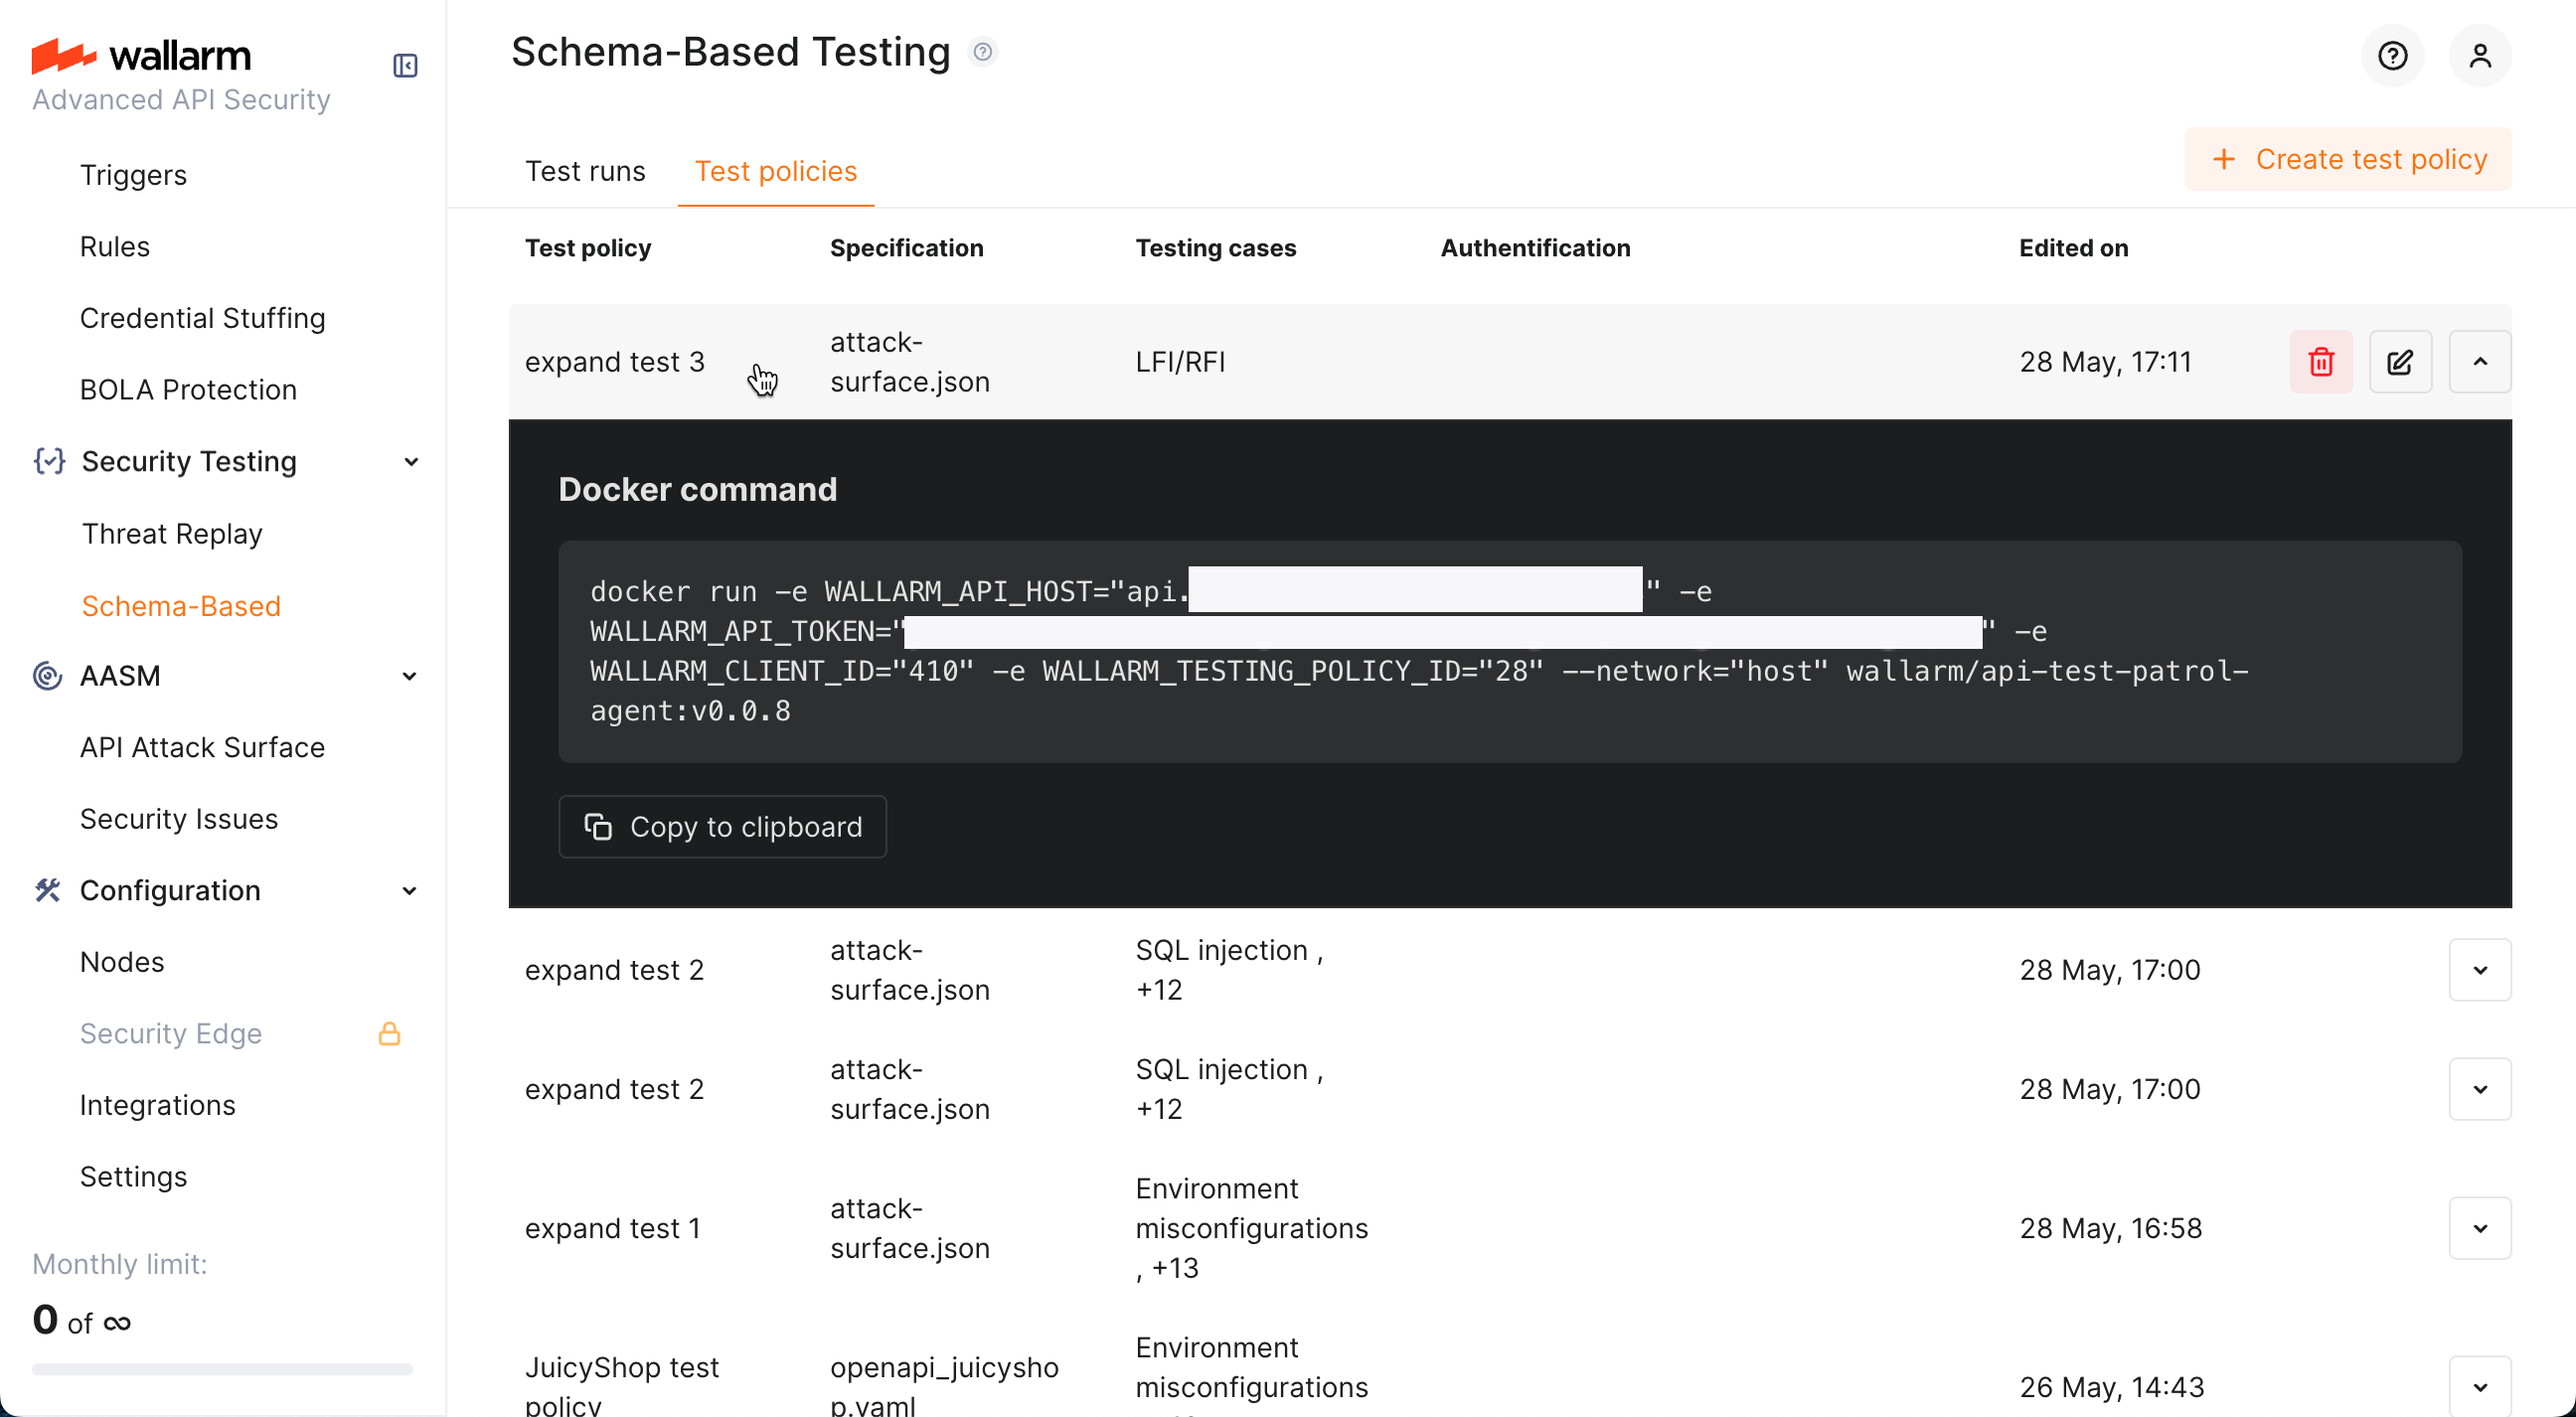
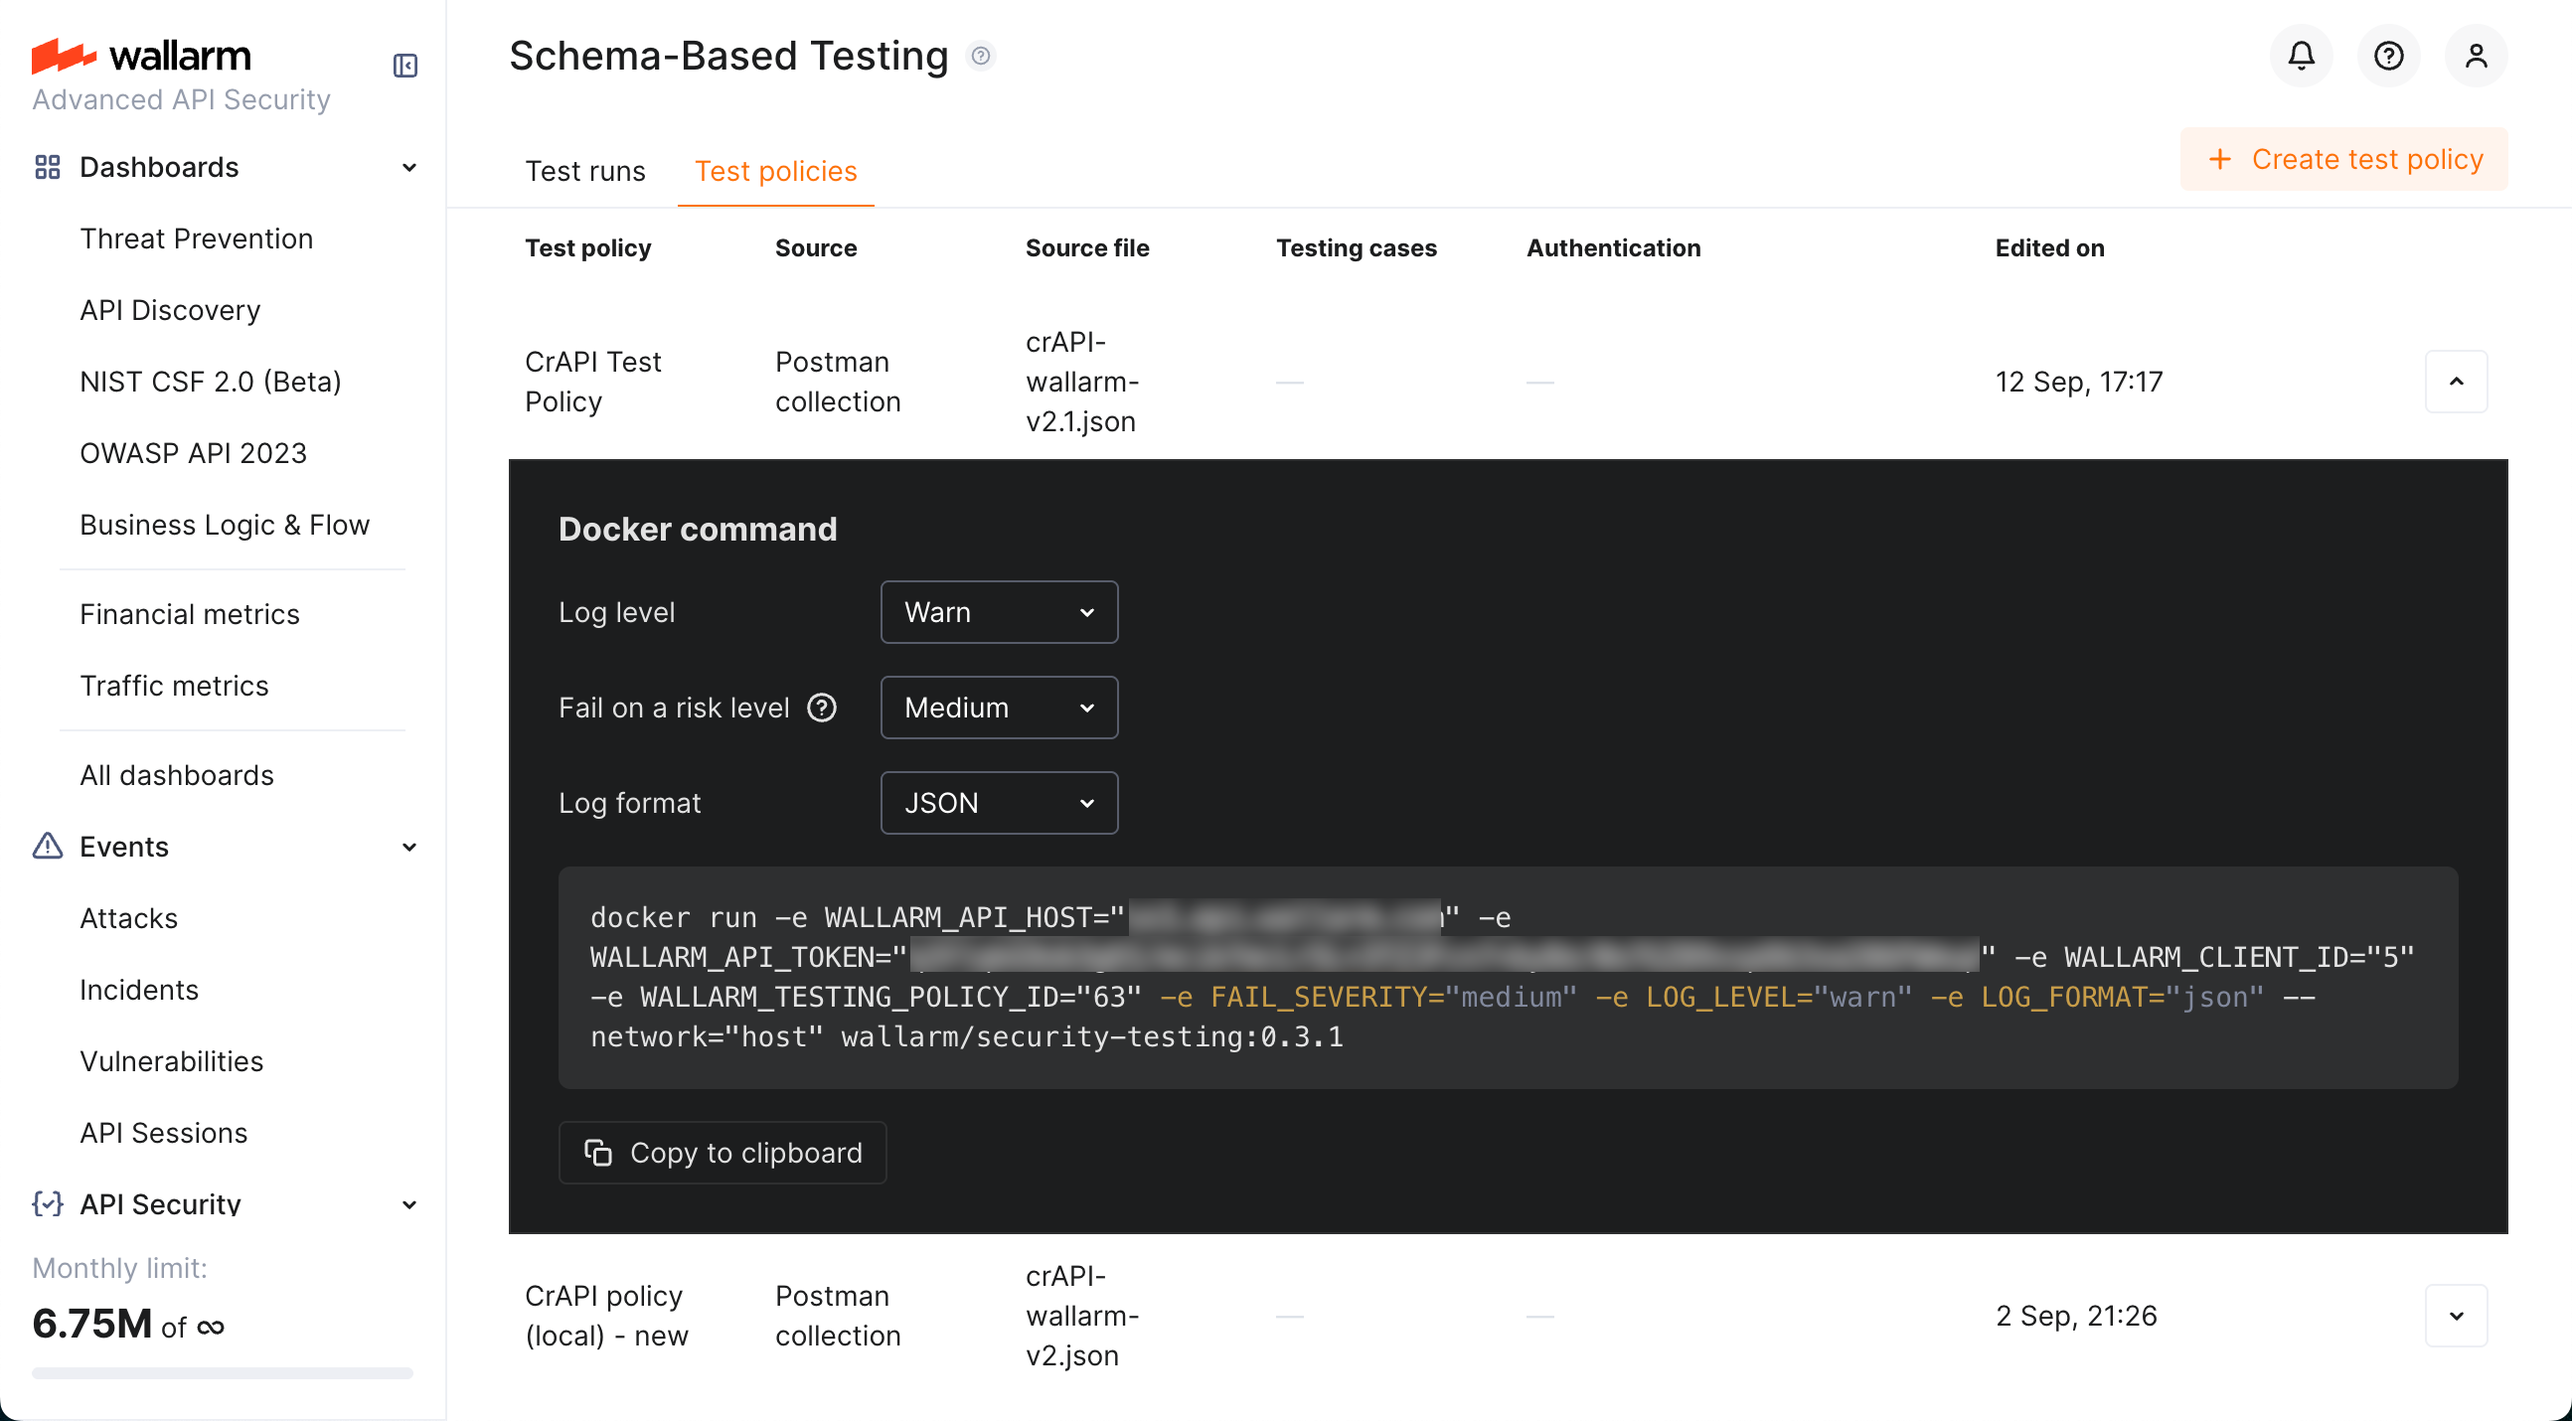
DOCS-3497 SBT setting test run success criteria via UI/variable

diff --git a/docs/latest/vulnerability-detection/schema-based-testing/setup.md b/docs/latest/vulnerability-detection/schema-based-testing/setup.md
@@ -153,10 +153,10 @@ As test policy is [created](#test-policy-types), it provides you with the Docker
 
 1. Go to Wallarm Console → **Security Testing** → **Schema-Based** → **Test policies**.
 1. Click you policy. The policy's Docker command will be displayed.
+1. If necessary, redefine Docker log level and format, and [test run success criteria](#test-run-success-criteria). This adds extra [variables](#environment-variables) to the command.
 
     ![Schema-Based Testing - test policy Docker command](../../images/vulnerability-detection/sbt-policy-docker-command.png)
 
-1. If necessary, redefine Docker log level and format.
 1. Copy command and run it or embed into your CI/CD pipeline. This will run security tests selected in the policy for your application.
 
     Remember that, for OAS-based run, you can override the policy's **Runtime parameters** on each run by adding the corresponding `-e` parameters to the Docker `run` command, for example:
@@ -184,6 +184,7 @@ Environment variable | Description| Required
 `WALLARM_API_TOKEN` | Wallarm's `Schema-Based Testing agent` API token. See details [here](#token). | Yes
 `WALLARM_CLIENT_ID` | ID of your organization in Wallarm US or EU cloud. | Yes
 `WALLARM_TESTING_POLICY_ID` | ID of [test policy](#test-policy-types) containing all testing configuration. | Yes
+`FAIL_SEVERITY` | Defines [test run success criteria](#test-run-success-criteria) used when running tests as a part of a specific CI/CD pipeline. | No
 `TARGET_URL` | For OAS-based run only. If set, overrides the target URL specified in test policy itself. | No
 `AUTH_HEADER` | For OAS-based run only. If set, overrides the authentication data specified in test policy itself. | No
 
@@ -227,7 +228,8 @@ See the explanation for the `-fail-severity` flag in the next section.
 
 ### Test run success criteria
 
-If your include Wallarm's Schema-Based test runs into your CI/CD pipeline, it is important to define the criteria of test run success. You can do that with the `-fail-severity` flag with possible values:
+If your include Wallarm's Schema-Based test runs into your CI/CD pipeline, it is important to define the criteria of test run success. You can do that in the test policy details by setting 
+the **Fail on a risk level** to one of the values:
 
 * critical
 * high (default)
@@ -235,7 +237,18 @@ If your include Wallarm's Schema-Based test runs into your CI/CD pipeline, it is
 * low
 * info
 
-For example:
+Selecting any value different from default adds the `FAIL_SEVERITY` environment variable to the Docker run command.
+
+![Schema-Based Testing - defining test run success criteria](../../images/vulnerability-detection/sbt-test-run-success-criteria-setup.png)
+
+Example:
+
+```
+docker run -e WALLARM_API_HOST="us1.api.wallarm.com" -e WALLARM_API_TOKEN="<YOUR_SCHEMA-BASED_TESTING_AGENT-TOKEN>" -e WALLARM_CLIENT_ID="<YOUR_COMPANY_ID>" -e WALLARM_TESTING_POLICY_ID="<YOUR_TEST_POLICY_ID>" -e FAIL_SEVERITY="medium" --network="host" wallarm/security-testing:0.3.2
+```
+
+
+You can also set test run success criteria with the `-fail-severity` flag, for example:
 
 ```
 docker run -e WALLARM_API_HOST="us1.api.wallarm.com" -e WALLARM_API_TOKEN="<YOUR_SCHEMA-BASED_TESTING_AGENT-TOKEN>" -e WALLARM_CLIENT_ID="<YOUR_COMPANY_ID>" -e WALLARM_TESTING_POLICY_ID="<YOUR_TEST_POLICY_ID>" --network="host" wallarm/security-testing:0.3.2 -fail-severity medium
